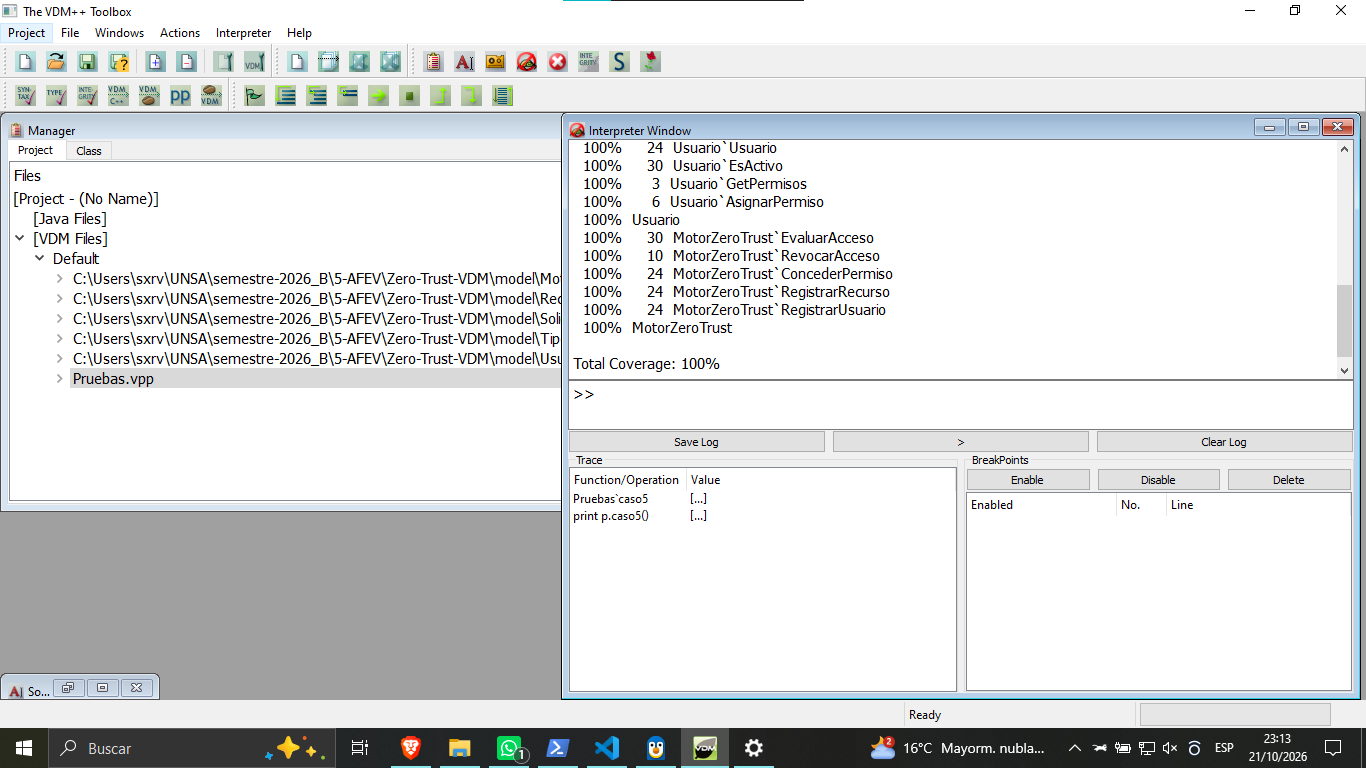
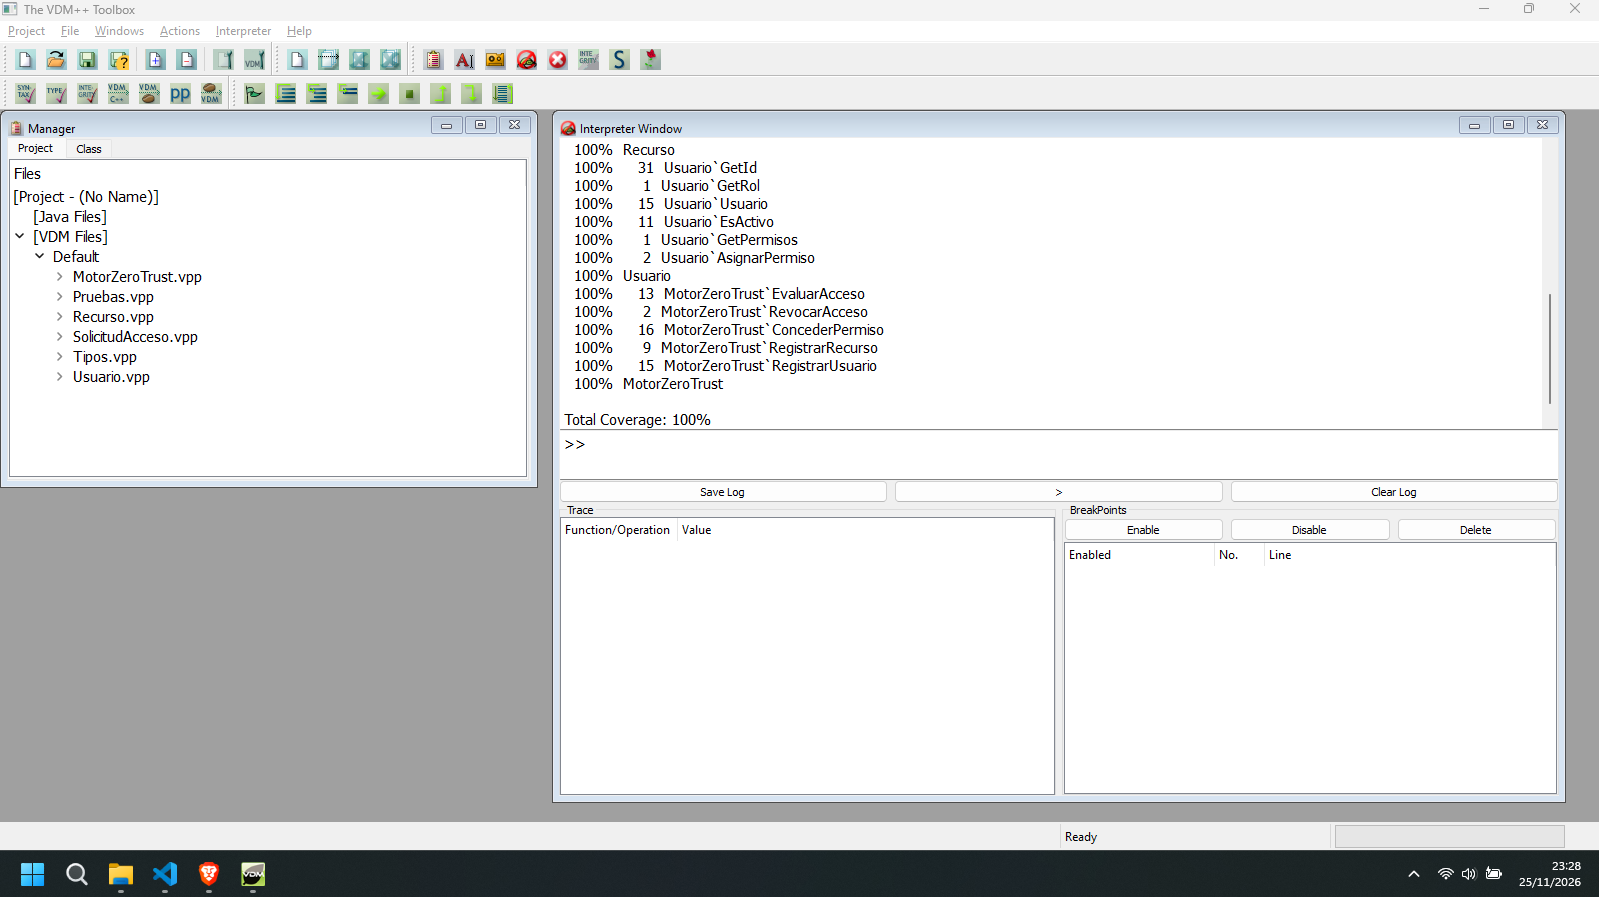
E8: documentar los resultados y la cobertura con evidencia de VDM++

Changed region(s): [[0.0, 0.0, 1.0, 1.0], [0.9531, 0.0, 0.9839, 0.0312]]

diff --git a/docs/05-pruebas-validacion.md b/docs/05-pruebas-validacion.md
@@ -1,0 +1,54 @@
+# E8 · Pruebas y cobertura del motor Zero Trust
+
+En The VDM++ Toolbox v9.0.7 las seis clases pasaron el análisis de sintaxis y tipos. Con la comprobación dinámica de tipos, invariantes, precondiciones y poscondiciones activada, todos los resultados coincidieron con los esperados. El intérprete registró cinco rechazos por precondición y uno por invariante. La cobertura total reportada por `rtinfo` fue del **100 %**.
+
+## Reproducir la ejecución
+
+1. En **Project → New Project**, crea un proyecto de trabajo. En **Project → Add File to Project**, añade los seis archivos `.vpp` de [model](../model/). Si ya estaban cargados, selecciona los archivos y vuelve a analizarlos.
+2. Selecciona los archivos en **Manager** y pulsa **Actions → Syntax Check**. Selecciona las clases y pulsa **Actions → Type Check**. Comprueba que las seis pasan.
+3. En **Project → Project Options → Interpreter**, activa **Dynamic type check**, **Dynamic checks of invariants**, **Check of pre-conditions** y **Check of post-conditions**.
+4. Abre **Windows → Interpreter**. Introduce las líneas de [comandos.txt](../entregables/E8/comandos.txt) en orden, una por una. `init` inicializa el modelo y `tcov reset` pone a cero los contadores. Ejecuta ambos una sola vez al inicio. Cada prueba de rechazo se invoca por separado para poder seguir después del error esperado.
+5. `tcov write e8_final.tc` guarda los contadores de la sesión y `rtinfo e8_final.tc` muestra el informe. Compara el total y el detalle por operación con la [salida de cobertura](../entregables/cobertura.E8.txt).
+
+## Casos que devuelven una decisión o completan una comprobación
+
+En [Pruebas.vpp](../model/Pruebas.vpp), `run()` usa la precondición de `Verifica` para comprobar cada resultado. Si todos coinciden, el intérprete muestra `(no return value)`. En la tabla, los resultados de ese grupo son los valores comprobados por las aserciones. `decisionesE8()` comprueba y devuelve las seis decisiones en el orden indicado. Los dos casos del umbral usan un usuario activo con permiso, un recurso ordinario y un dispositivo válido.
+
+| Caso | Condición | Esperado | Obtenido | Evidencia |
+|---|---|---|---|---|
+| Rol | Usuario creado con rol de usuario | `<USUARIO>` | `<USUARIO>` | [run][sesion] |
+| Nombre | Recurso creado con nombre Servidor | `"Servidor"` | `"Servidor"` | [run][sesion] |
+| Acceso normal | Riesgo 20, con permiso | AUTORIZADO | AUTORIZADO | [run][sesion] |
+| Sin permiso | Usuario activo, sin permiso sobre el recurso | DENEGADO | DENEGADO | [run][sesion] |
+| Riesgo alto | Riesgo 85 | DENEGADO | DENEGADO | [run][sesion] |
+| Crítico sin MFA | Permiso y riesgo 10, MFA falso | DENEGADO | DENEGADO | [run][sesion] |
+| Crítico con MFA | Mismo usuario y recurso, MFA verdadero | AUTORIZADO | AUTORIZADO | [run][sesion] |
+| Revocación | Primera revocación de la solicitud autorizada 104 | true | true | [run][sesion] |
+| Segunda revocación | Se vuelve a revocar la solicitud 104 | false | false | [run][sesion] |
+| Riesgo 79 | Inmediatamente por debajo del umbral | AUTORIZADO | AUTORIZADO | [decisionesE8, 1][sesion] |
+| Riesgo 80 | Exactamente en el umbral | DENEGADO | DENEGADO | [decisionesE8, 2][sesion] |
+| Dispositivo inválido | Riesgo 79, dispositivo marcado como inválido | DENEGADO | DENEGADO | [decisionesE8, 3][sesion] |
+| Usuario inactivo | Registrado y con permiso, pero inactivo | DENEGADO | DENEGADO | [decisionesE8, 4][sesion] |
+| Usuario ausente | Usuario 99 sin registrar, recurso existente | DENEGADO | DENEGADO | [decisionesE8, 5][sesion] |
+| Recurso ausente | Recurso 99 sin registrar, usuario activo | DENEGADO | DENEGADO | [decisionesE8, 6][sesion] |
+
+## Casos de rechazo por contrato
+
+| Caso | Condición | Esperado | Obtenido | Evidencia |
+|---|---|---|---|---|
+| ID de solicitud repetido | Evaluar otra vez la solicitud 200 ya autorizada | Precondición de EvaluarAcceso | Error 58 | [idRepetido][sesion] |
+| Usuario duplicado | Registrar otra vez el ID 1 | Precondición de RegistrarUsuario | Error 58 | [usuarioDuplicado][sesion] |
+| Recurso duplicado | Registrar otro recurso con el ID 10 | Precondición de RegistrarRecurso | Error 58 | [recursoDuplicado][sesion] |
+| Permiso sin usuario | Usuario 99 ausente, recurso 10 registrado | Precondición de ConcederPermiso | Error 58 | [permisoSinUsuario][sesion] |
+| Permiso sin recurso | Usuario 1 registrado, recurso 99 ausente | Precondición de ConcederPermiso | Error 58 | [permisoSinRecurso][sesion] |
+| Riesgo 120 | Construir una solicitud con riesgo mayor que 100 | Invariante de SolicitudAcceso | Error 300, valor 120 | [caso5][sesion] |
+
+El riesgo 80 es válido para el registro y llega al motor, que exige un riesgo menor que 80 para autorizar. El riesgo 120 incumple la invariante `s.riesgo <= 100` al construir el registro. Para ese caso, el error 300 confirma el comportamiento esperado. Un valor distinto, un error en otra operación o la ausencia de un rechazo esperado indicarían un fallo de la prueba o del modelo. En la ejecución registrada hubo cero discrepancias.
+
+## Cobertura obtenida
+
+El [informe de rtinfo](../entregables/cobertura.E8.txt) muestra un 100 % para Pruebas, Recurso, Usuario y MotorZeroTrust. Registra 13 evaluaciones de acceso y dos revocaciones. El porcentaje expresa la cobertura que la herramienta midió al ejecutar estos casos. La tabla documenta qué condiciones y resultados se comprobaron.
+
+![Cobertura total del 100 % en VDM++ Toolbox, con 13 evaluaciones de acceso y dos revocaciones](../entregables/cobertura_E8.png)
+
+[sesion]: ../entregables/E8/ejecucion.txt
